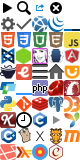
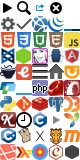
Add Sinon documentation

Changed region(s): [[0.8, 0.9062, 1.0, 1.0]]

diff --git a/assets/stylesheets/global/_icons.scss b/assets/stylesheets/global/_icons.scss
@@ -60,3 +60,4 @@
 ._icon-haskell:before       { background-position: -1rem -9rem; }
 ._icon-requirejs:before     { background-position: -2rem -9rem; }
 ._icon-chai:before          { background-position: -3rem -9rem; }
+._icon-sinon:before         { background-position: -4rem -9rem; }

diff --git a/assets/stylesheets/pages/_sinon.scss b/assets/stylesheets/pages/_sinon.scss
@@ -1,0 +1,9 @@
+._sinon {
+  padding-left: 1rem;
+
+  > h1, > h2, > h3 { margin-left: -1rem; }
+  > h2 { @extend %block-heading; }
+  > h3 { @extend %block-label, %label-blue; }
+
+  dt > code { @extend %label; }
+}

diff --git a/assets/stylesheets/application.css.scss b/assets/stylesheets/application.css.scss
@@ -54,6 +54,7 @@
         'pages/redis',
         'pages/requirejs',
         'pages/rfc',
+        'pages/sinon',
         'pages/sphinx',
         'pages/underscore',
         'pages/yard',

diff --git a/lib/docs/filters/sinon/entries.rb b/lib/docs/filters/sinon/entries.rb
@@ -1,0 +1,47 @@
+module Docs
+  class Sinon
+    class EntriesFilter < Docs::EntriesFilter
+      def additional_entries
+        entries = []
+        type = config = nil
+
+        css('*').each do |node|
+          if node.name == 'h2'
+            config = false
+            type = node.content.strip
+            type.remove! 'Test '
+            type.remove! 'Sinon.JS '
+            type = type[0].upcase + type.from(1)
+
+            id = type.parameterize
+            node['id'] = id
+
+            entries << [type, id, 'Sections']
+          elsif node.name == 'h3' && node.content.include?('sinon.config')
+            config = true
+          elsif node.name == 'dl'
+            node.css('dt > code').each do |code|
+              name = code.content.strip
+              name.sub! %r{\(.*\);?}, '()'
+              name.sub! %r{\Aserver.(\w+)\s=.*\z}, 'server.\1'
+              name.remove! '`'
+              name.remove! %r{\A.+?\=\s+}
+              name.remove! %r{\A\w+?\s}
+              name.prepend 'sinon.config.' if config
+
+              next if name =~ /\s/
+              next if entries.any? { |entry| entry[0].casecmp(name) == 0 }
+
+              id = name.parameterize
+              code.parent['id'] = id
+
+              entries << [name, id, type]
+            end
+          end
+        end
+
+        entries
+      end
+    end
+  end
+end

diff --git a/lib/docs/scrapers/sinon.rb b/lib/docs/scrapers/sinon.rb
@@ -1,0 +1,19 @@
+module Docs
+  class Sinon < UrlScraper
+    self.name = 'Sinon'
+    self.type = 'sinon'
+    self.version = '1.10.2'
+    self.base_url = 'http://sinonjs.org/docs/'
+
+    html_filters.push 'sinon/clean_html', 'sinon/entries', 'title'
+
+    options[:title] = 'Sinon.JS'
+    options[:container] = '.docs'
+    options[:skip_links] = true
+
+    options[:attribution] = <<-HTML
+      &copy; 2010&ndash;2014 Christian Johansen<br>
+      Licensed under the BSD License.
+    HTML
+  end
+end

diff --git a/lib/docs/filters/sinon/clean_html.rb b/lib/docs/filters/sinon/clean_html.rb
@@ -1,0 +1,20 @@
+module Docs
+  class Sinon
+    class CleanHtmlFilter < Filter
+      def call
+        css('> p:first-child', 'a.api', 'ul.nav').remove
+
+        css('.section', 'h2 code', 'h3 code').each do |node|
+          node.before(node.children).remove
+        end
+
+        # Remove code highlighting
+        css('pre').each do |node|
+          node.content = node.content
+        end
+
+        doc
+      end
+    end
+  end
+end
